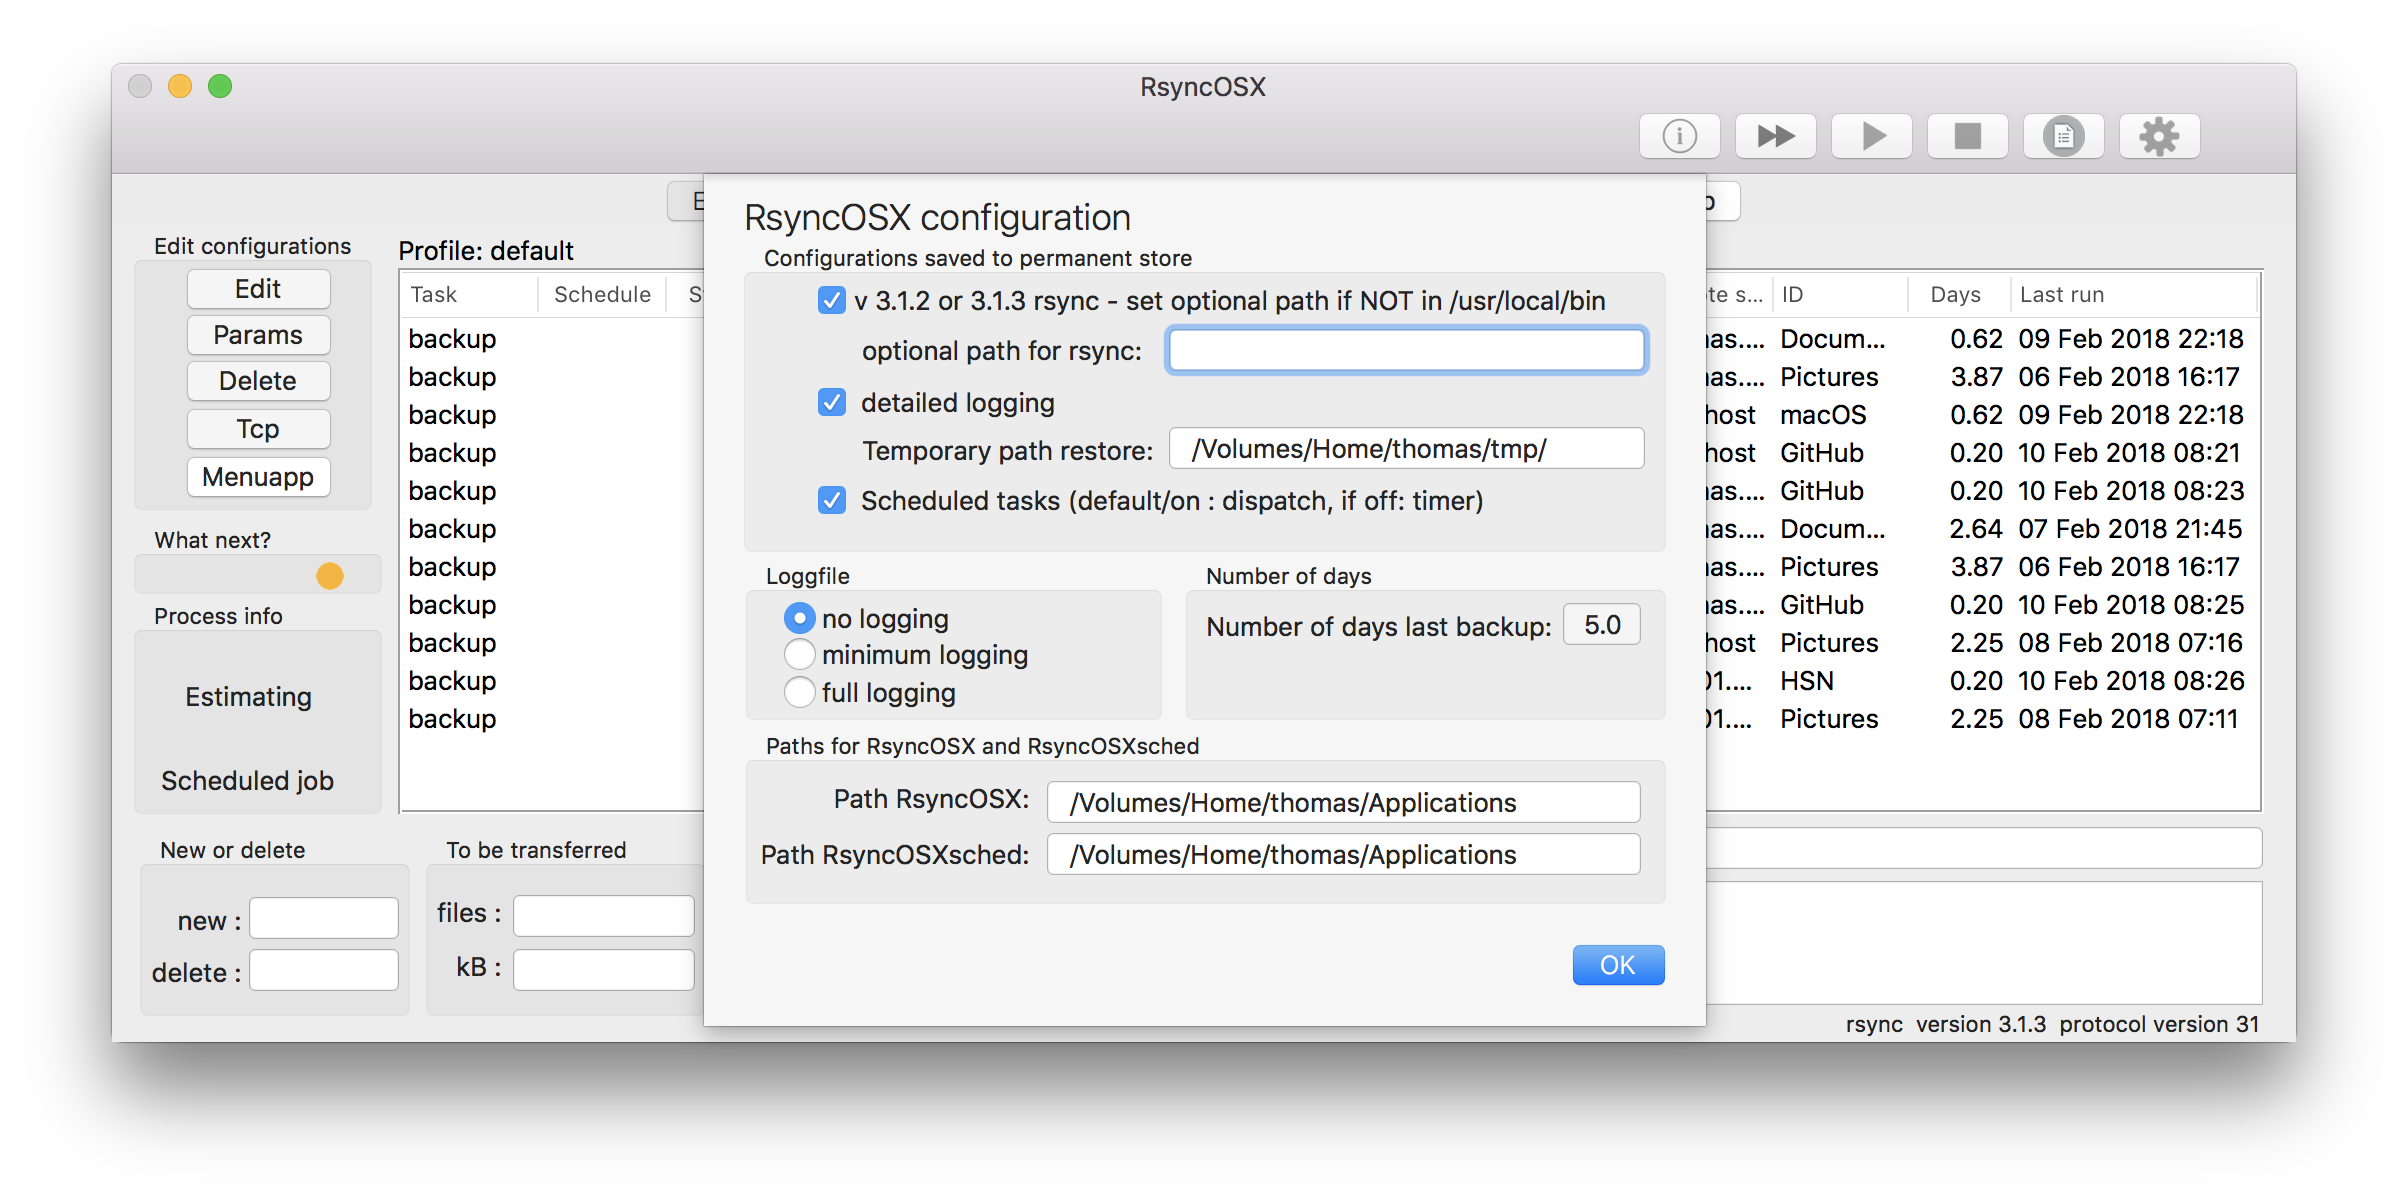
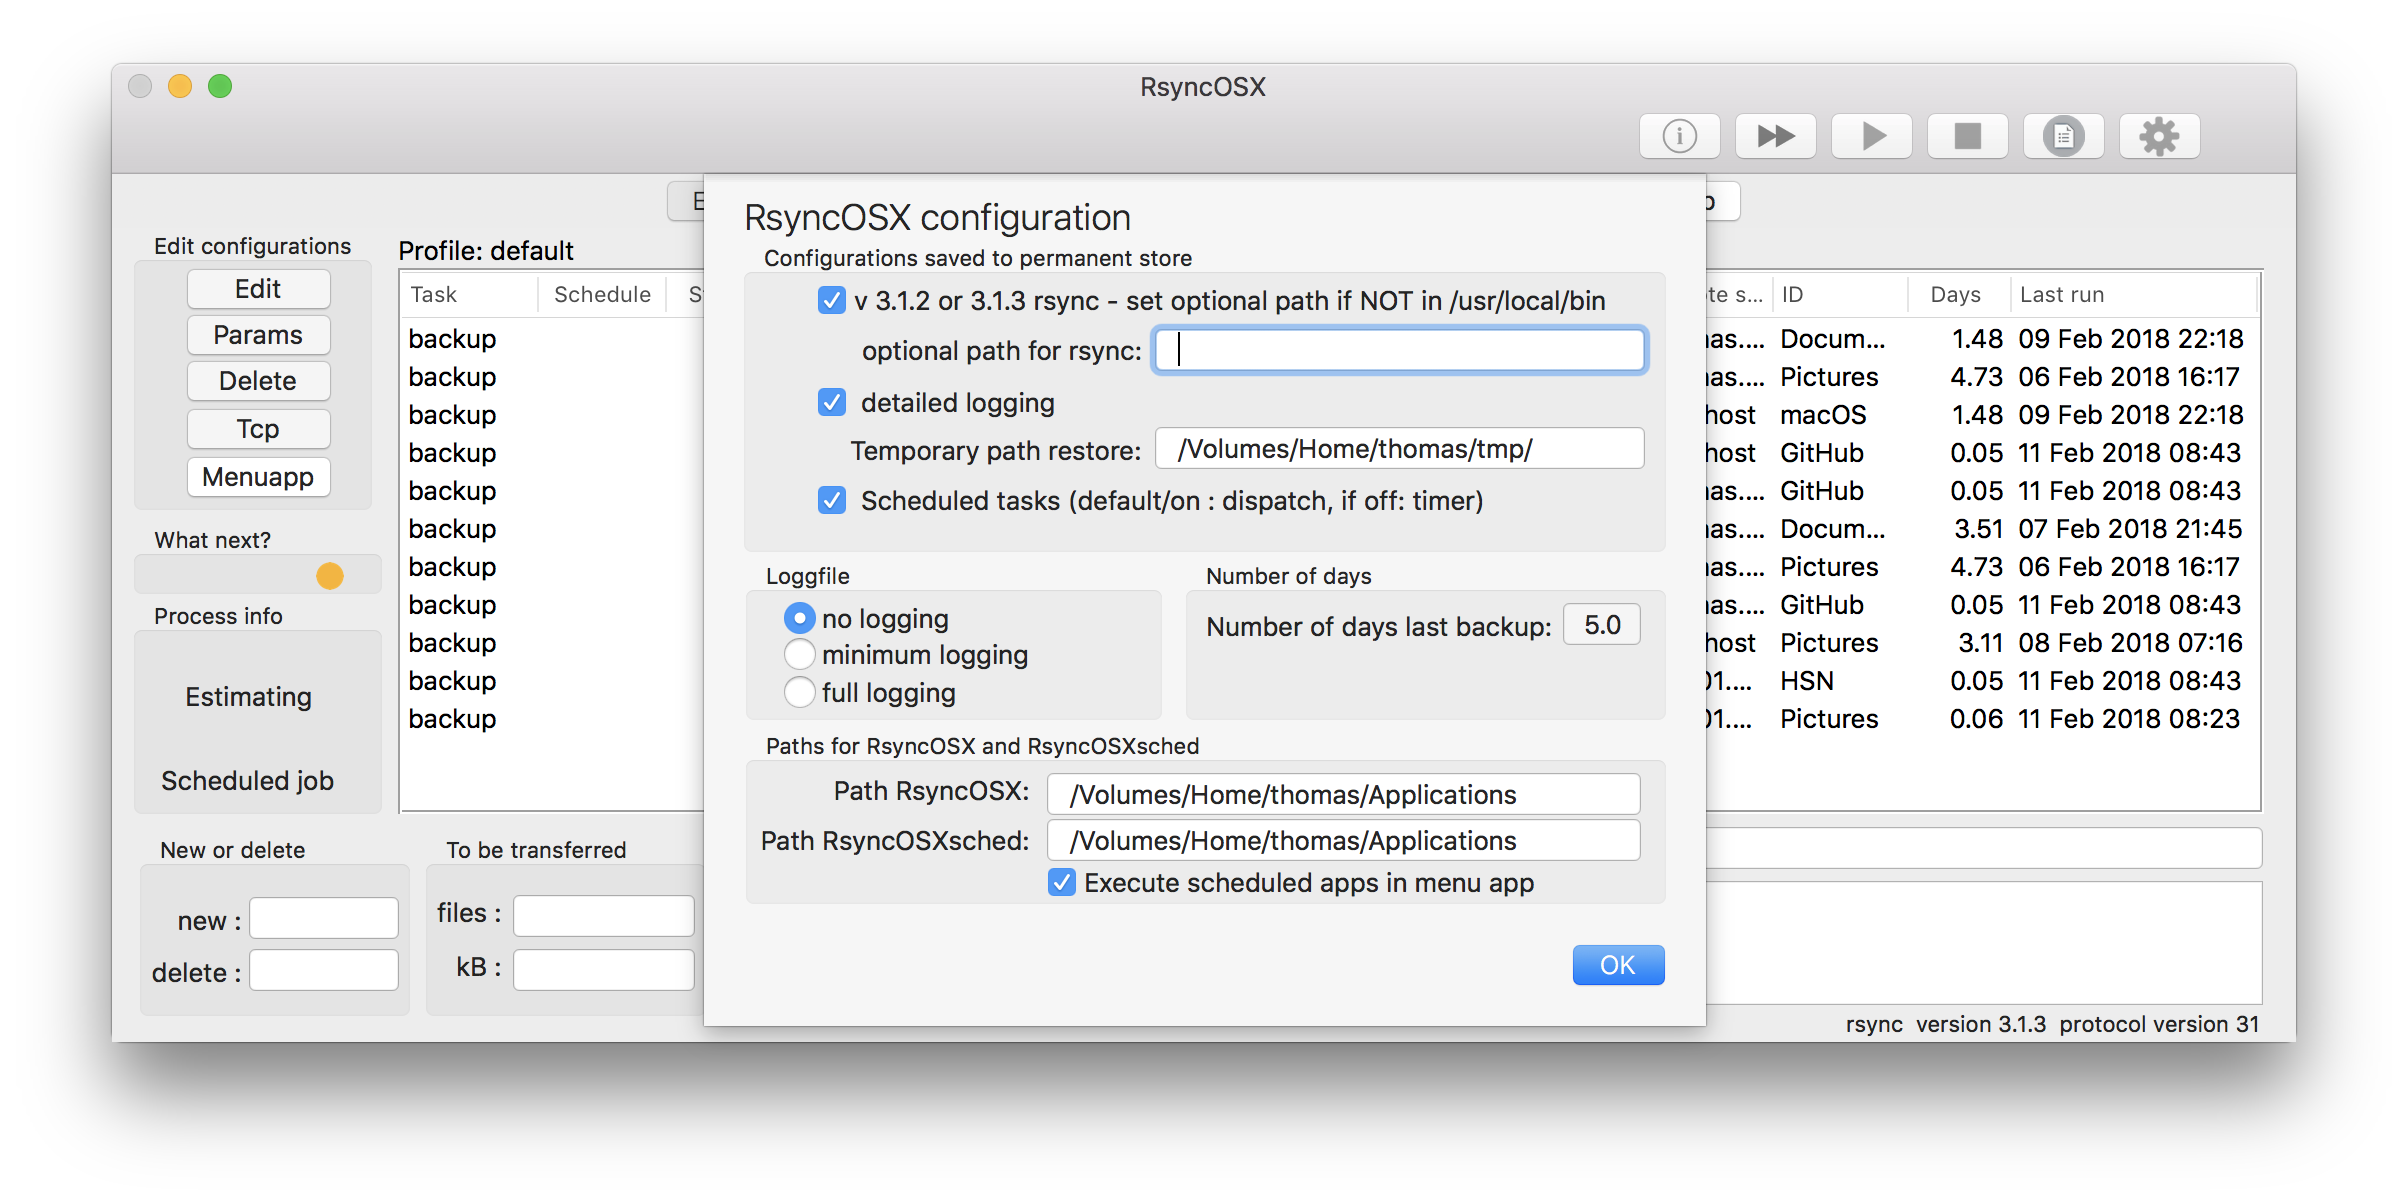
updates

diff --git a/README.md b/README.md
@@ -6,11 +6,11 @@ The updated release candidate includes a revised schedule.
 
 Initial listing v0.0.1, it compiles and executes but still need some more testing before released. This is the menu app (popover) for executing scheduled tasks RsyncOSX. The idea is add scheduled tasks in RsyncOSX, quit RsyncOSX and let the menu app take care of executing the scheduled tasks.
 
-**Important**: only scheduled tasks from the selected profile is active. **Do not** run both RsyncOSX and the menu app at the same time **utilizing the same profile**. Any scheduled tasks will be executed at the same time in both apps and it will most likely cause problems.
+**Important**: only scheduled tasks from the selected profile is active. **Do not** run both RsyncOSX and the menu app at the same time **utilizing the same profile**. Any scheduled tasks will be executed at the same time in both apps and it will most likely cause problems. Default is execute scheduled tasks only in menu app.
 
 In last release candidate there is added a log of tasks.
 
-The menu app can be started from RsyncOSX and RsyncOSX can be activated from the menu app. This require paths for both apps to be entered into userconfiguration (**without** a trailing `/`).  The paths are used for activating the apps from either within RsyncOSX or RsyncOSXsched.
+The menu app can be started from RsyncOSX and RsyncOSX can be activated from the menu app. This require paths for both apps to be entered into userconfiguration (**without** a trailing `/`).  The paths are used for activating the apps from either within RsyncOSX or RsyncOSXsched. Toggle on/off if scheduled tasks in menu app only. Default is in menu app only.
 ![](screenshots/sched0.png)
 Adding scheduled for tasks (in profile `Snapshots`) in RsyncOSX. After adding tasks either keep RsyncOSX running or select main menu and select the button `Menuapp`.
 ![](screenshots/sched1.png)
